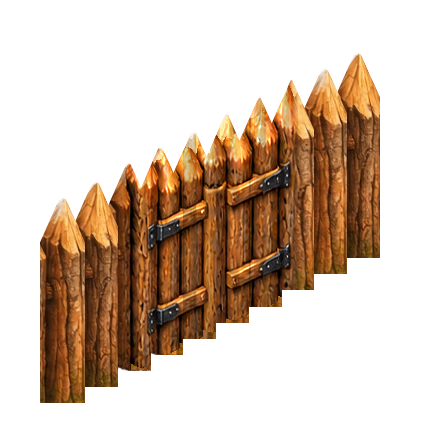
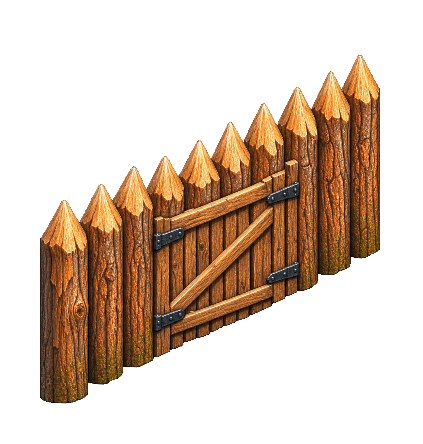
feat(art): complete six-direction palisade gate review set
Add independently AI-painted NE, E and W sprites and reuse the approved workflow's SE raster for NW. Preserve anchors, existing southern PNGs, normal wall assets and placement logic. Refresh gate and scene caches; document remaining visual differences.

Changed region(s): [[0.0922, 0.1171, 0.922, 0.9077]]

diff --git a/index.html b/index.html
@@ -408,11 +408,11 @@ Ihre Form wird ausschließlich im Bergwerkzeug eingestellt. Ihre Deckkraft folgt
 window.VedrasCloudsDisabled=new URLSearchParams(location.search).get('clouds')!=='1';</script>
 <script src="asset-image-pool.js?v=0.3.1&amp;step11=20261028"></script><script src="render-quality-policy.js?v=0.1.0&amp;terrain=quality-source-20261117"></script><script src="gpu-terrain.js?v=0.2.0&amp;uvHighp=20261122"></script><script src="strategic-view.js?v=0.1.0"></script><script src="static-terrain-cache.js?v=0.1.0"></script><script src="render-benchmark-profiler.js?v=0.1.0"></script>
 <script src="render-step15-trace.js?v=0.1.0"></script>
-<script src="sprite-atlas-runtime.js?v=0.3.0"></script><script src="worldgen-geography.js?v=2.1.2"></script><script src="geography-io.js?v=20261120-io-v1"></script><script src="catalog.js?v=0.18.0"></script><script src="terrain-source-rules.js?v=0.18.0"></script><script src="water-texture.js?v=20261119-forest-seamless-v2"></script><script src="autotile.js?v=20261119-ground-wrap-v1"></script><script src="chunks.js?v=0.37.1&amp;step16b=20261101-offscreen1"></script><script src="terrain-worker-client.js?v=20261119-ground-wrap-v1"></script><script src="nature_catalog.js?v=20261121-desert-trees-v1"></script><script src="flora-plan.js?v=0.17.0"></script><script src="terrain-plan.js?v=0.18.0"></script><script src="sprite-planner.js?v=0.16.0"></script><script src="existing-asset-rules.js?v=20261121-desert-trees-v1"></script><script src="forest.js?v=20261122-canopy-variation-v1"></script><script src="forest-ground.js?v=20261120-organic-v1&amp;softSnow=20261122"></script><script src="nature-balance.js?v=0.36.1"></script><script src="polish.js?v=0.21.0"></script><script src="relief.js?v=0.35.0"></script><script src="shoreline.js?v=0.30.1&amp;artfix=20261027"></script><script src="river.js?v=0.30.0"></script><script src="river-banks.js?v=0.2.0"></script><script src="mountain.js?v=0.11.0"></script><script src="roads.js?v=0.31.0"></script><script src="walls.js?v=20261124-palisade-gates-ai-v4&amp;southGates=20261124-stage1-v5"></script><script src="bridges.js?v=0.28.0"></script><script src="shadow-tone.js?v=20261122-shadow-union-v1"></script><script src="shadow-system.js?v=20261122-gray-all-v1"></script><script src="shadow-shapes.js?v=20261122-gray-all-v1"></script><script src="sprite-shadow-editor.js?v=20261122-shadow-union-v1"></script><script src="shadow-painter-ui.js?v=0.1.0"></script><script src="object-layout-cache.js?v=0.2.0"></script><script src="static-object-layer.js?v=0.2.0"></script><script src="gpu-sprite-layer.js?v=0.1.0"></script><script src="frame-preparation-cache.js?v=0.1.0"></script><script src="adaptive-lod.js?v=0.1.1&amp;step10=20261027"></script><script src="realtime-map-renderer.js?v=0.1.1"></script><script src="cloud-artwork.js?v=0.22.4&amp;step12=20261028"></script><script src="fog-atmosphere.js?v=0.22.4"></script><script src="quick-terrain-preview.js?v=20261101-1"></script>
+<script src="sprite-atlas-runtime.js?v=0.3.0"></script><script src="worldgen-geography.js?v=2.1.2"></script><script src="geography-io.js?v=20261120-io-v1"></script><script src="catalog.js?v=0.18.0"></script><script src="terrain-source-rules.js?v=0.18.0"></script><script src="water-texture.js?v=20261119-forest-seamless-v2"></script><script src="autotile.js?v=20261119-ground-wrap-v1"></script><script src="chunks.js?v=0.37.1&amp;step16b=20261101-offscreen1"></script><script src="terrain-worker-client.js?v=20261119-ground-wrap-v1"></script><script src="nature_catalog.js?v=20261121-desert-trees-v1"></script><script src="flora-plan.js?v=0.17.0"></script><script src="terrain-plan.js?v=0.18.0"></script><script src="sprite-planner.js?v=0.16.0"></script><script src="existing-asset-rules.js?v=20261121-desert-trees-v1"></script><script src="forest.js?v=20261122-canopy-variation-v1"></script><script src="forest-ground.js?v=20261120-organic-v1&amp;softSnow=20261122"></script><script src="nature-balance.js?v=0.36.1"></script><script src="polish.js?v=0.21.0"></script><script src="relief.js?v=0.35.0"></script><script src="shoreline.js?v=0.30.1&amp;artfix=20261027"></script><script src="river.js?v=0.30.0"></script><script src="river-banks.js?v=0.2.0"></script><script src="mountain.js?v=0.11.0"></script><script src="roads.js?v=0.31.0"></script><script src="walls.js?v=20261124-palisade-gates-ai-v4&amp;palisadeGates=20261124-stage2-v6"></script><script src="bridges.js?v=0.28.0"></script><script src="shadow-tone.js?v=20261122-shadow-union-v1"></script><script src="shadow-system.js?v=20261122-gray-all-v1"></script><script src="shadow-shapes.js?v=20261122-gray-all-v1"></script><script src="sprite-shadow-editor.js?v=20261122-shadow-union-v1"></script><script src="shadow-painter-ui.js?v=0.1.0"></script><script src="object-layout-cache.js?v=0.2.0"></script><script src="static-object-layer.js?v=0.2.0"></script><script src="gpu-sprite-layer.js?v=0.1.0"></script><script src="frame-preparation-cache.js?v=0.1.0"></script><script src="adaptive-lod.js?v=0.1.1&amp;step10=20261027"></script><script src="realtime-map-renderer.js?v=0.1.1"></script><script src="cloud-artwork.js?v=0.22.4&amp;step12=20261028"></script><script src="fog-atmosphere.js?v=0.22.4"></script><script src="quick-terrain-preview.js?v=20261101-1"></script>
 <script src="frozen-map-package.js?v=20261101-2"></script>
 <script src="authored-world-contract.js?v=20261118-semantic-world-v1"></script>
 <script src="frozen-map-runtime.js?v=20261118-near-archive-audit-v4&amp;edgePolicy=20261119&amp;linkedAudit=20261122&amp;coreScene=20261122"></script>
 <script src="frozen-ground-core-seams.js?v=20261120-owned-core-gate-v1&amp;hexTip=20261122"></script>
 <script src="world-tile-streamer.js?v=0.22.6&amp;fix=exact-lod-20261117&amp;clouds=off-20261120&amp;coreFilter=20261122"></script>
-<script src="world-tile-ground-reuse.js?v=0.1.0"></script><script src="app.js?v=20261120-organic-v1&amp;diagnostics=20261121&amp;shadows=partial-20261121&amp;edgeCore=20261122&amp;localPreview=20261122&amp;softSnow=20261122&amp;grayAll=20261122&amp;shadowUnion=20261122&amp;footGate=20261122&amp;walls=20261124-palisade-gates-ai-v4&amp;southGates=20261124-stage1-v5&amp;coreScene=20261122&amp;geography=2.1.2&amp;geographyIO=20261120&amp;clouds=off-20261120"></script><script src="nature-ui.js?v=20261122-open-trees-v1&amp;alpineShrubs=20261122&amp;wallClear=20261124"></script><script src="road-ui.js?v=0.28.0"></script><script src="wall-ui.js?v=20261124-palisade-gates-ai-v4"></script><script src="ui-organizer.js?v=20261122-shadow-gray-shortcut-v1"></script><script src="forest-ui.js?v=20261122-canopy-variation-v1"></script><script src="river-ui.js?v=0.15.0"></script><script src="flora-workspace.js?v=0.13.0"></script>
+<script src="world-tile-ground-reuse.js?v=0.1.0"></script><script src="app.js?v=20261120-organic-v1&amp;diagnostics=20261121&amp;shadows=partial-20261121&amp;edgeCore=20261122&amp;localPreview=20261122&amp;softSnow=20261122&amp;grayAll=20261122&amp;shadowUnion=20261122&amp;footGate=20261122&amp;walls=20261124-palisade-gates-ai-v4&amp;palisadeGates=20261124-stage2-v6&amp;coreScene=20261122&amp;geography=2.1.2&amp;geographyIO=20261120&amp;clouds=off-20261120"></script><script src="nature-ui.js?v=20261122-open-trees-v1&amp;alpineShrubs=20261122&amp;wallClear=20261124"></script><script src="road-ui.js?v=0.28.0"></script><script src="wall-ui.js?v=20261124-palisade-gates-ai-v4"></script><script src="ui-organizer.js?v=20261122-shadow-gray-shortcut-v1"></script><script src="forest-ui.js?v=20261122-canopy-variation-v1"></script><script src="river-ui.js?v=0.15.0"></script><script src="flora-workspace.js?v=0.13.0"></script>
 </body></html>

diff --git a/walls.js b/walls.js
@@ -332,7 +332,7 @@ window.VedrasWalls=(()=>{
    pending.push(new Promise(resolve=>{
     image.onload=()=>resolve(true);image.onerror=()=>resolve(false);
     image.src='assets/walls/palisade/gates/v1/gate_dir'+side+'.png?v='+
-     ((side===2||side===3)?'20261124-timber-gates-south-stage1-v5':'20261124-timber-gates-ai-v4');
+     ((side===2||side===3)?'20261124-timber-gates-south-stage1-v5':'20261124-timber-gates-stage2-v6');
    }));
   }
   for(const name of ['corner_post','end_post']){

diff --git a/app.js b/app.js
@@ -4423,6 +4423,7 @@ function frozenSceneKey({force4x=false}={}){
   'palisade-native-rgba-gates-v2',
   'palisade-ai-painted-gates-v4',
   'palisade-ai-south-stage1-v5',
+  'palisade-ai-complete-stage2-v6',
   'forest-floor-wrap-v1',
   'organic-forest-fringes-and-soft-snow-v4',
   // Strict source-core alpha stabilization and read-only seam publication

diff --git a/assets/walls/palisade/gates/v1/README.md b/assets/walls/palisade/gates/v1/README.md
@@ -1,7 +1,7 @@
-# Closed palisade gates — stage 1 (south-east and south-west)
+# Closed palisade gates — stage 2 (all directions)
 
-**Pending visual approval.** Only `gate_dir2.png` and `gate_dir3.png` are replaced in this stage. The reference artwork is the accepted `edge_dir2.webp` and `edge_dir3.webp` from PR #182, commit `c2831d0b4709fff10a6293bb7bbd20e110964f43`. The two candidates are independent AI-generated raster images, technically calibrated against those references by whole-image projective registration, alpha cleanup and modest palette adjustment. No wall pixels or different gate graphics are composited into them.
+All six directions now use the new AI-generated raster candidate set. Directions 0, 1 and 4 were independently generated using the accepted original palisade references; directions 2 and 3 retain the previously integrated stage 1 PNGs. Direction 5 is a byte-identical reuse of direction 2 with the existing direction 5 render anchor. No SVG, drawing of gate components, or compositing of different timber images is used in the new assets.
 
-Both files are 423 × 444 RGBA PNGs, with the existing render anchors unchanged. Opaque interiors were verified, and the sprites were examined against light, dark and green backgrounds. Outer stake textures and individual silhouette steps are redrawn by the model, so these test candidates are not pixel-identical to the accepted walls. The end-stake foot positions are registered to within one raster pixel; visual continuity and any remaining differences require editor review.
+The original reference canvas sizes and render anchors are retained: 420 × 444 px (0), 84 × 630 px (1, 4), 423 × 444 px (2, 3, 5). Technical preparation comprises whole-image alignment, alpha cleanup, modest palette correction, and a small central width calibration for the two edge-on sprites. The existing normal palisades, stone artwork, joins, shadows and vegetation clearance are not modified.
 
-Directions 0, 1, 4 and 5 retain their previous images pending stage 2 and are not approved; direction 5 intentionally does not yet reuse the new direction 2. Original palisades, masonry, stone gates, junctions, shadows and vegetation clearance logic are unchanged. Do not regenerate these two files with the historical v4 composition script or use those previous gate assets as new visual references.
+Stage 2 QA: the new independent sprites have opaque interiors and transparent exteriors. They were compared with their original references against light, dark and green backgrounds. Direction 0 has 12 rather than 10 visible stake tips, and the wood texture and internal stake positions are not pixel-identical to the originals. Directions 1 and 4 are separately painted, not flipped, with a narrow reinforced gate assembly. These are review candidates, not a claim of exact visual equivalence or final editor approval. Historical v4 composition outputs and scripts are not a source for this set. Do not regenerate this set using those scripts.
